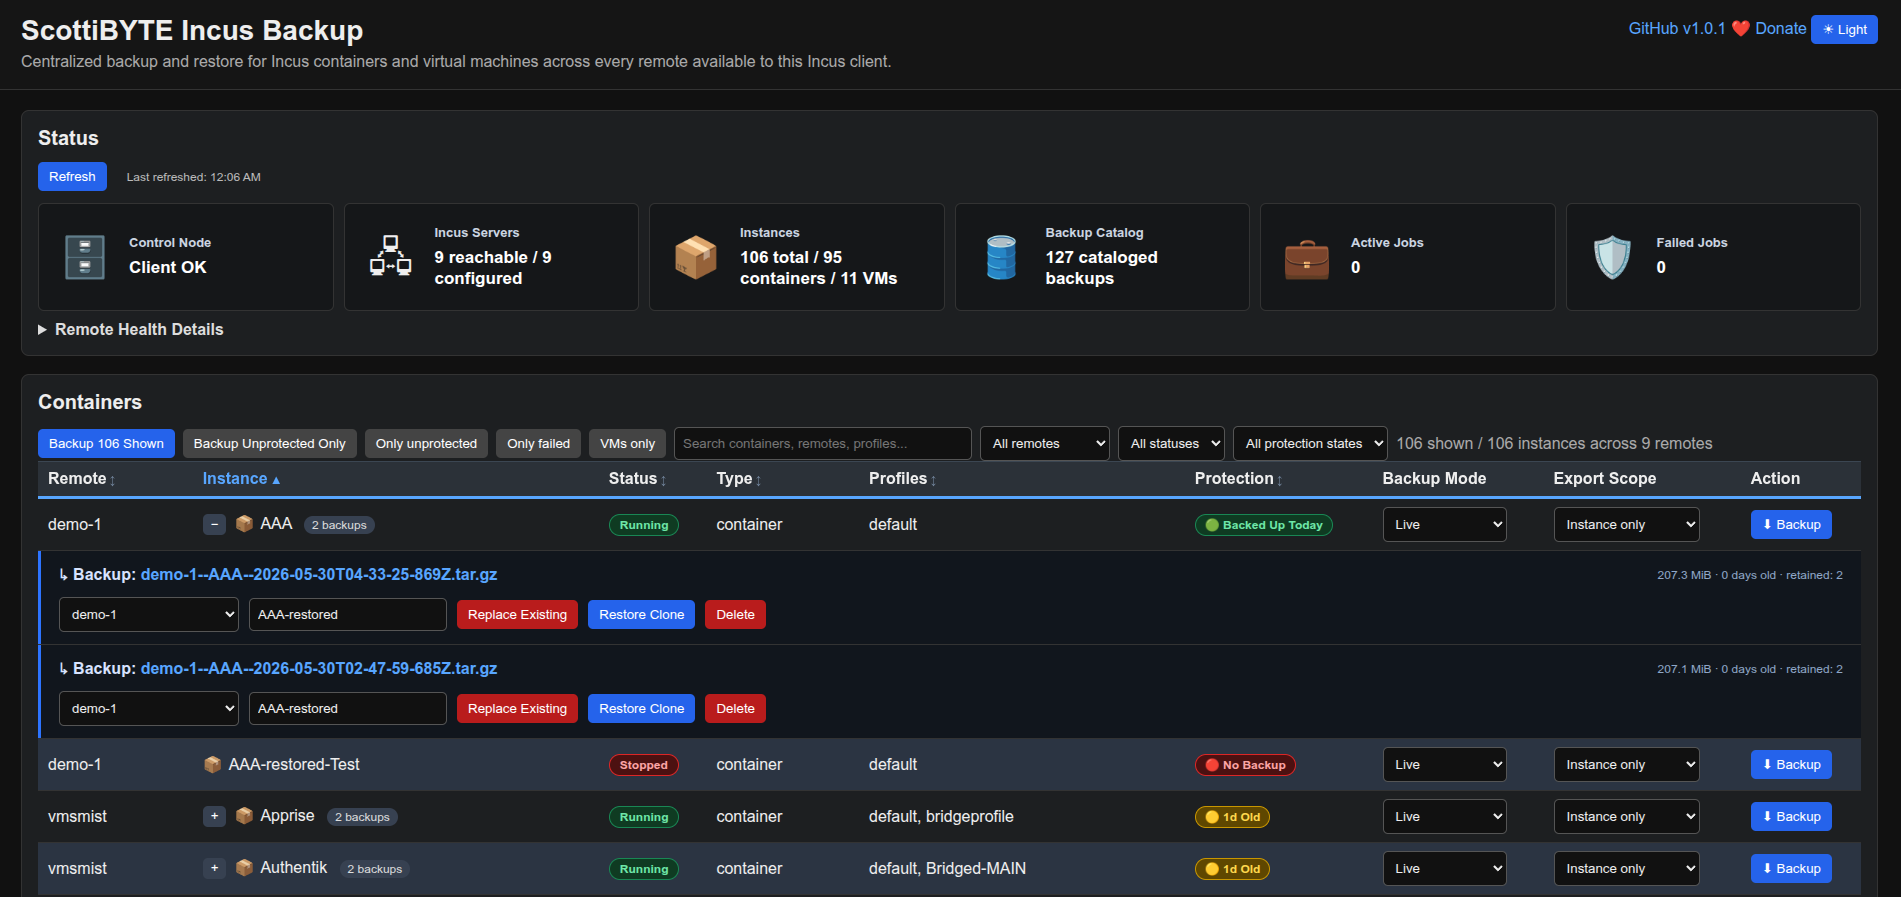
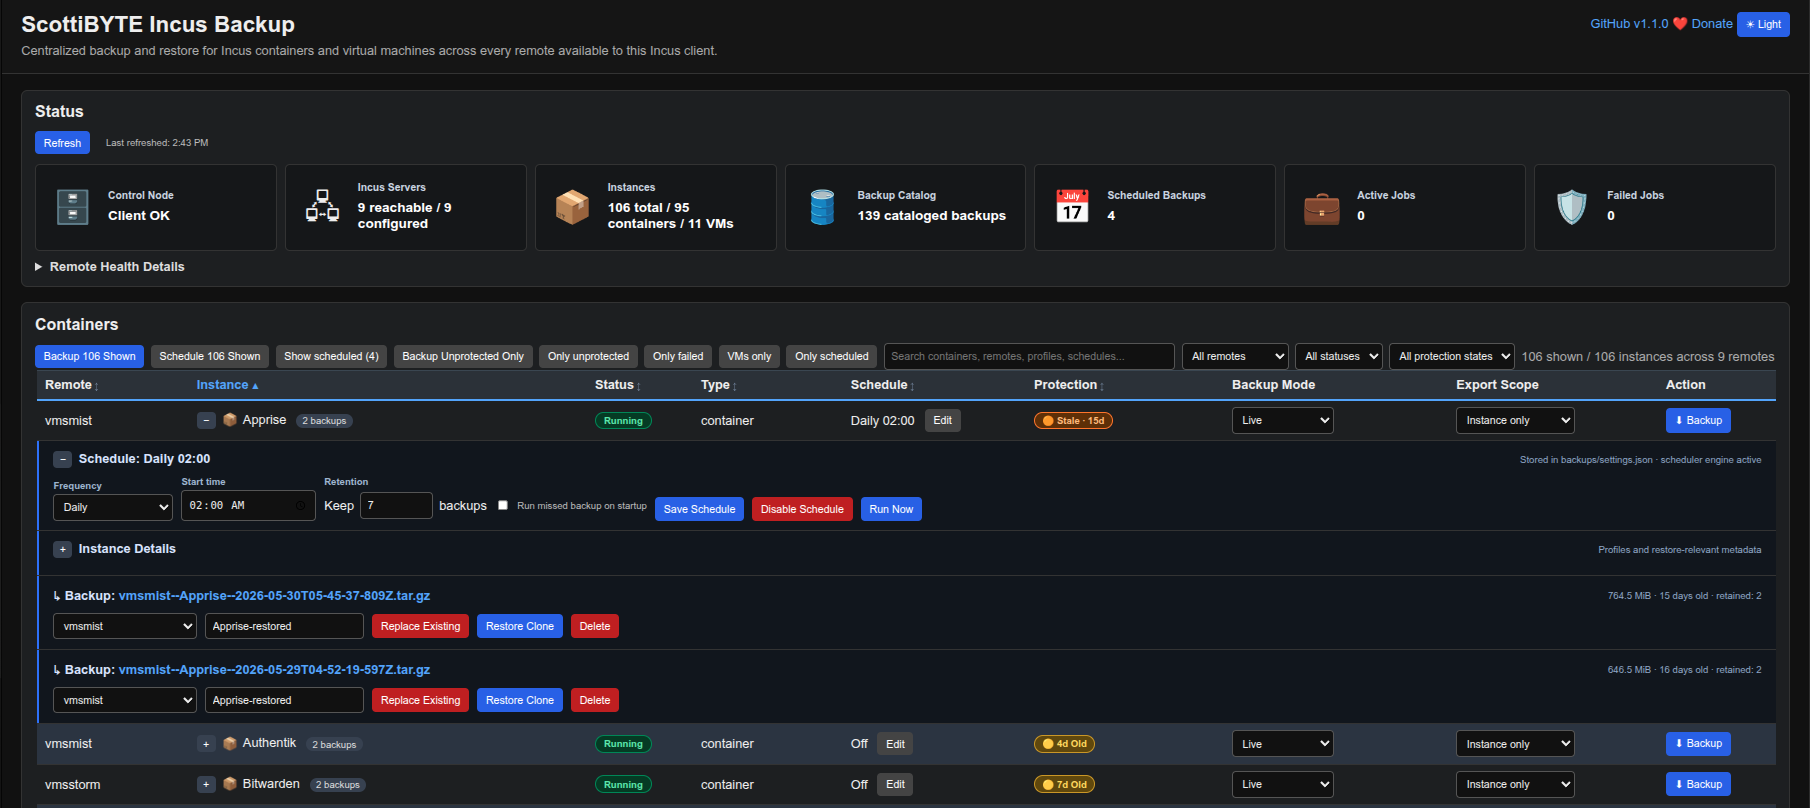
Update v1.1.0 header label and dashboard screenshot

diff --git a/server.js b/server.js
@@ -1451,7 +1451,7 @@ const indexHtml = String.raw`<!doctype html>
   <meta charset="utf-8" />
   <meta name="viewport" content="width=device-width, initial-scale=1" />
   <title>ScottiBYTE Incus Backup</title>
-  <link rel="stylesheet" href="/style.css?v=20260614s47" />
+  <link rel="stylesheet" href="/style.css?v=20260614s48" />
 </head>
 <body>
   <header>
@@ -1697,7 +1697,7 @@ justify-content:center;">🛡️</div><div class="stat-text" style="display:flex
   </div>
 
   <div id="toastBox"></div>
-  <script src="/app.js?v=20260614s47"></script>
+  <script src="/app.js?v=20260614s48"></script>
 </body>
 </html>`;
 
@@ -2879,7 +2879,7 @@ async function loadHealth() {
     byId('health').textContent = '';
     const versionPill = byId('versionPill');
     if (versionPill) {
-      versionPill.textContent = data.version && data.version !== 'development' ? 'GitHub v' + data.version : 'GitHub Dev Build';
+      versionPill.textContent = data.version && data.version !== 'development' ? 'GitHub v' + data.version : 'GitHub v1.1.0';
       versionPill.title = data.version && data.version !== 'development'
         ? 'View GitHub releases. Running version v' + data.version
         : 'View GitHub releases. Development build. Set APP_VERSION in Docker to show a release version.';